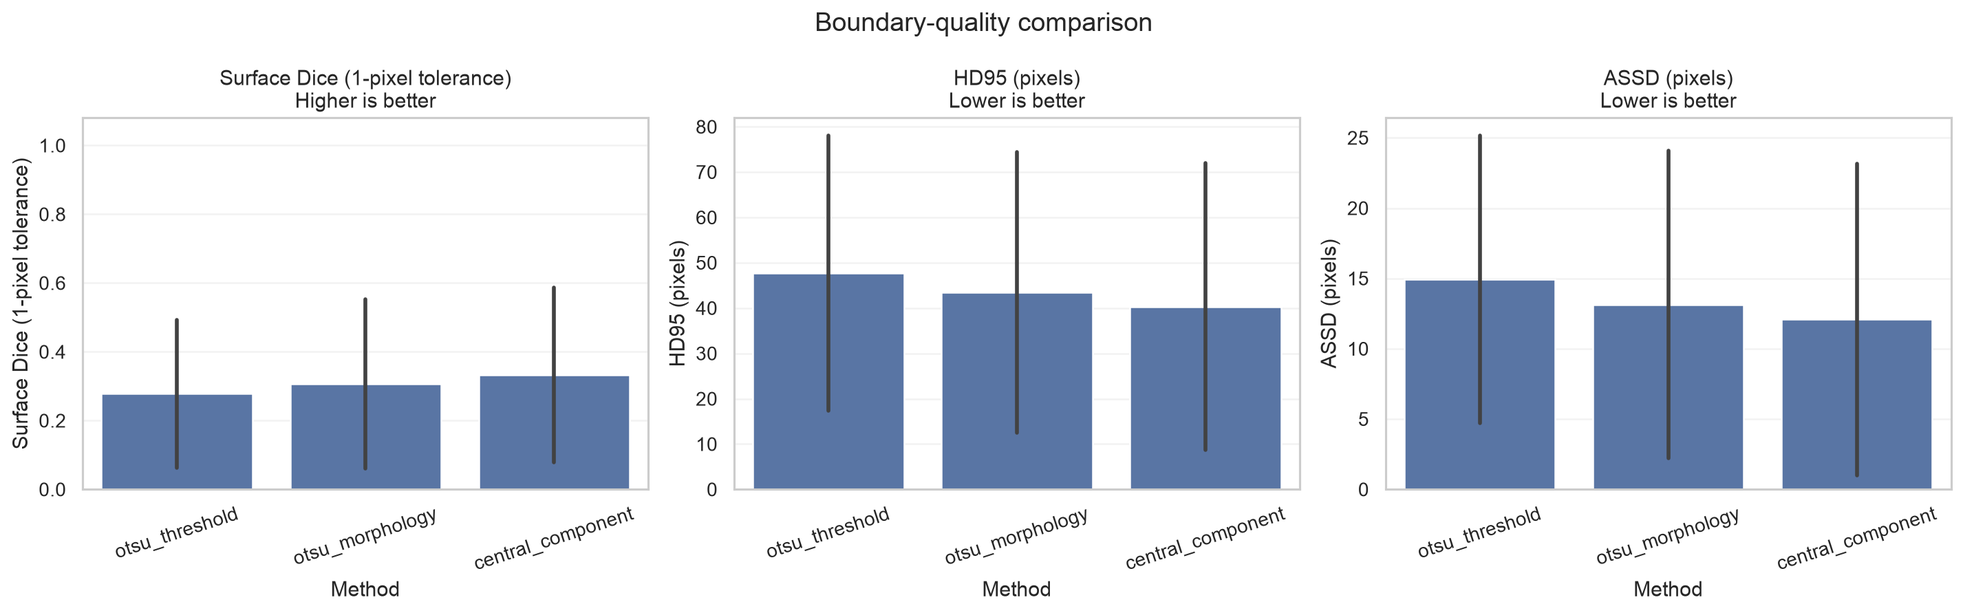
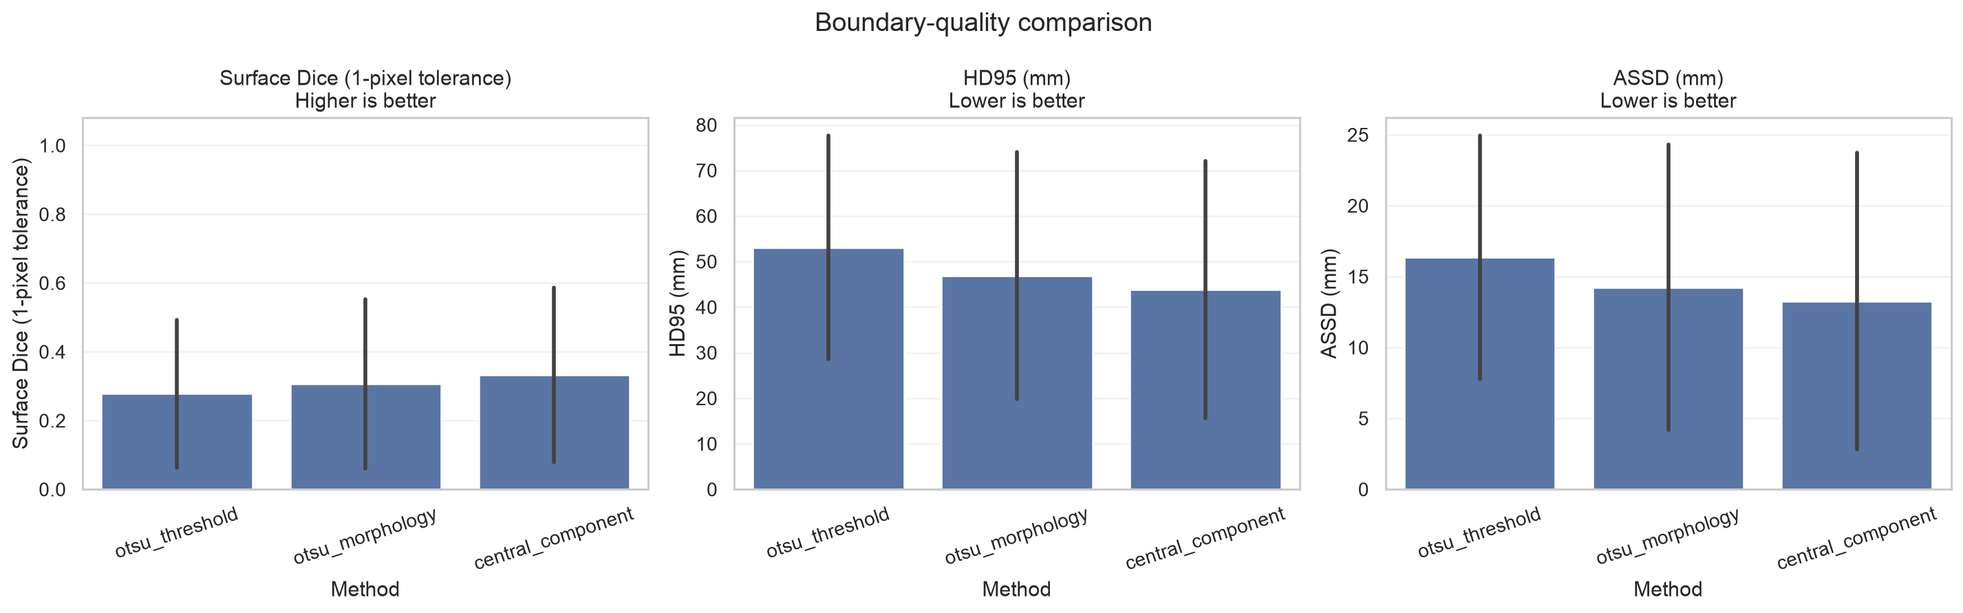
docs: report physical paired and modality analyses

diff --git a/README.md b/README.md
@@ -16,7 +16,7 @@ For each 2D image, the program loads its reference brain mask, robustly normaliz
 
 The implementation is separated into dataset loading, preprocessing, segmentation, metrics, evaluation, and visualization modules. There is no notebook-only logic and no hidden metrics library.
 
-The evaluator also calculates boundary metrics, stratifies results by source dataset, produces deterministic bootstrap confidence intervals, and applies reference-free geometry checks that flag suspicious masks for manual review.
+The evaluator also calculates boundary metrics in pixels and physical millimeters, stratifies results by source dataset and MRI modality, performs paired scan-level comparisons, produces deterministic bootstrap confidence intervals, and applies reference-free geometry checks that flag suspicious masks for manual review.
 
 ## Why skull stripping matters
 
@@ -88,7 +88,7 @@ Three boundary metrics complement region overlap:
 - **HD95** is the 95th percentile of symmetric boundary distances. Lower is better.
 - **ASSD** is the average symmetric surface distance. Lower is better.
 
-HD95 and ASSD are reported in pixels, not millimeters, because this 2D benchmark contains mixed native scan geometries. When exactly one mask is empty, the image diagonal is used as an explicit finite distance penalty.
+HD95 and ASSD are reported both in pixels and in millimeters. The loader reads the row and column spacing stored in each NIfTI header, so physical distances respect mixed native resolutions. When exactly one mask is empty, the corresponding image diagonal is used as an explicit finite distance penalty.
 
 Dice and IoU measure overlap. Precision asks, “of what I called brain, how much was correct?” Sensitivity asks, “of the real brain, how much did I find?” Specificity asks, “of the non-brain background, how much did I reject?” Pixel accuracy is recorded but is not a headline result because a large background can make a poor brain mask look deceptively accurate.
 
@@ -144,7 +144,18 @@ data/processed/synthstrip_data_v1.5_2d
 python -m pytest -q
 ```
 
-Verified result: `28 passed`.
+Verified result: `38 passed`.
+
+For the complete development checks used in this repository:
+
+```bash
+python -m pip install -r requirements-dev.txt
+ruff check .
+mypy src
+python -m pytest -q --cov=src --cov-report=term-missing
+```
+
+The verified branch coverage was 57.3%, above the explicit 55% project floor. The test suite includes a subprocess integration test that creates a temporary NIfTI dataset and exercises the complete CLI.
 
 ## Reproduce development tuning
 
@@ -186,6 +197,31 @@ On a system where Matplotlib cannot write its normal user cache, prefix either e
 
 The CLI also accepts overrides such as `--opening-radius-fraction`, `--closing-radius-fraction`, `--minimum-component-area-fraction`, `--centrality-weight`, normalization percentiles, `--boundary-tolerance-pixels`, and `--bootstrap-samples`. Do not tune segmentation parameters on the held-out test metrics.
 
+## Optional local Streamlit explorer
+
+After the command-line pipeline is working, install the separate UI dependency and start the public-dataset explorer:
+
+```bash
+python -m pip install -r requirements-app.txt
+streamlit run streamlit_app.py
+```
+
+The app lets you choose an included official dataset image, adjust morphology settings, compare predictions, view error maps, and inspect Dice/IoU and warning diagnostics. It deliberately has no arbitrary upload control, so it does not invite users to place private patient data in the prototype. The CLI remains the reproducible source of the reported results.
+
+## Calibrate warning rules on development data
+
+The warning thresholds can be audited without touching the test split:
+
+```bash
+python -m scripts.calibrate_quality_warnings \
+  --data-dir data/processed/synthstrip_data_v1.5_2d \
+  --output-dir outputs/quality_calibration \
+  --failure-dice-threshold 0.40 \
+  --seed 42
+```
+
+On the 24 development scans, the search recommended the existing defaults (`minimum_area_fraction=0.03`, `maximum_method_disagreement=0.35`): it identified both development cases below Dice 0.40 with no false warning. That tiny result is a development calibration check, not evidence of general warning accuracy.
+
 ## Output directory
 
 Each run writes:
@@ -194,7 +230,9 @@ Each run writes:
 per_image_metrics.csv          one row per scan and method
 summary_metrics.csv            aggregate statistics per method
 source_summary_metrics.csv     metrics grouped by source family and method
+modality_summary_metrics.csv   metrics grouped by encoded MRI modality and method
 bootstrap_confidence_intervals.csv  deterministic 95% intervals for mean metrics
+paired_method_comparisons.csv  paired improvements, confidence intervals, wins, and tests
 quality_summary.csv            warning rates and warning-type counts
 run_config.json                seed, parameters, versions, platform, and counts
 invalid_pairs.csv              only when invalid inputs are found
@@ -203,11 +241,15 @@ dice_distribution.png
 iou_distribution.png
 processing_time_comparison.png
 source_dice_comparison.png
+modality_dice_comparison.png
+paired_dice_improvement.png
 quality_warning_rates.png
 boundary_metric_comparison.png
 best_cases.png
 worst_cases.png
 overlays/                      six individual five-panel case figures
+failure_review.md              ranked prediction-only review queue
+failure_review_cases/          multi-method review figures for flagged cases
 ```
 
 Every case figure shows the normalized MRI, ground truth, prediction, contour overlay, and labeled error map. Error maps use both color and text: TP = correct brain, FP = predicted outside the reference, and FN = missed brain.
@@ -222,9 +264,9 @@ These are real measurements from the verified full run on all **558 official tes
 
 | Method | Mean Dice | Mean IoU | Precision | Sensitivity | Specificity | Mean time/image |
 |---|---:|---:|---:|---:|---:|---:|
-| `otsu_threshold` | 0.7494 | 0.6184 | 0.6811 | 0.8843 | 0.7649 | 0.00032 s |
-| `otsu_morphology` | 0.7717 | 0.6499 | 0.7087 | 0.9044 | 0.7858 | 0.00218 s |
-| `central_component` | **0.7903** | **0.6777** | **0.7491** | 0.9010 | **0.8174** | 0.00380 s |
+| `otsu_threshold` | 0.7494 | 0.6184 | 0.6811 | 0.8843 | 0.7649 | 0.00034 s |
+| `otsu_morphology` | 0.7717 | 0.6499 | 0.7087 | 0.9044 | 0.7858 | 0.00225 s |
+| `central_component` | **0.7903** | **0.6777** | **0.7491** | 0.9010 | **0.8174** | 0.00397 s |
 
 `central_component` had the best mean Dice and IoU. It improved mean Dice by about 0.041 over raw Otsu. Its median Dice was 0.823, but its minimum was only 0.085; the mean alone hides severe failures.
 
@@ -236,13 +278,19 @@ Quick-run measurements on the deterministic 20-scan sample were Dice 0.7700, 0.7
 
 The 95% scan-level bootstrap intervals used 1,000 resamples with seed 42:
 
-| Method | Mean Dice (95% CI) | Surface Dice | HD95 | ASSD |
+| Method | Mean Dice (95% CI) | Surface Dice | HD95 (mm) | ASSD (mm) |
 |---|---:|---:|---:|---:|
-| `otsu_threshold` | 0.7494 (0.7375–0.7609) | 0.2783 | 47.69 px | 14.92 px |
-| `otsu_morphology` | 0.7717 (0.7590–0.7832) | 0.3068 | 43.49 px | 13.15 px |
-| `central_component` | **0.7903 (0.7768–0.8032)** | **0.3332** | **40.33 px** | **12.09 px** |
+| `otsu_threshold` | 0.7494 (0.7375–0.7609) | 0.2783 | 53.09 | 16.36 |
+| `otsu_morphology` | 0.7717 (0.7590–0.7832) | 0.3068 | 46.90 | 14.25 |
+| `central_component` | **0.7903 (0.7768–0.8032)** | **0.3332** | **43.88** | **13.26** |
 
 ![Boundary metric comparison](docs/assets/boundary_metric_comparison.png)
+
+### Paired scan-level comparisons
+
+Because every method processes the same 558 scans, paired differences are more informative than comparing independent means. Morphology improved Dice over Otsu by 0.0223 on average (95% bootstrap CI 0.0196–0.0251) and won on 449 scans. The central-component method improved Dice over Otsu by 0.0409 (0.0355–0.0468) and won on 456 scans. It improved over morphology by 0.0187 (0.0150–0.0228), although 235 scans tied because component selection made no change. Wilcoxon signed-rank tests remained significant after Holm correction; statistical significance does not imply clinical adequacy.
+
+![Paired per-scan Dice improvements](docs/assets/paired_dice_improvement.png)
 
 ### Reference-free warning results
 
@@ -255,6 +303,12 @@ For `central_component`, 31 of 558 predictions (5.6%) were flagged. Their observ
 `central_component` mean Dice varied by source family: ASL 0.851, FSM 0.700, Infant 0.714, IXI 0.799, and QIN 0.852.
 
 ![Source-level Dice comparison](docs/assets/source_dice_comparison.png)
+
+### Modality-specific results
+
+The scan identifiers encode broad modality groups. For `central_component`, mean Dice ranged from 0.514 for qT1 and 0.755 for T1 to 0.947 for MRA and 0.952 for ASL/EPI. This post-hoc descriptive analysis helps locate failure modes; it was not used to tune the methods.
+
+![Modality-level Dice comparison](docs/assets/modality_dice_comparison.png)
 
 ## Failure analysis
 
@@ -275,8 +329,8 @@ The source-level central-component mean Dice also varied: ASL 0.851, QIN 0.852, 
 - The centrality heuristic can select the wrong anatomy when the brain is off-center or internal tissue is especially bright.
 - Ground-truth definitions can differ between datasets, especially around cerebrospinal fluid and boundaries.
 - Development tuning used only 24 scans. Test metrics describe this dataset and split, not every scanner, population, disease, or protocol.
-- Quality-warning thresholds are geometry heuristics, not calibrated confidence estimates. Some poor masks are not flagged and unusual valid masks can be flagged.
-- Boundary distances are reported in pixels, so direct physical-distance comparison across native resolutions is limited.
+- Quality-warning thresholds are geometry heuristics calibrated on only 24 development scans, not confidence estimates. Some poor masks are not flagged and unusual valid masks can be flagged.
+- Physical boundary distances use NIfTI header spacing, but they remain 2D slice measurements and do not describe a 3D anatomical surface.
 - Timing is machine- and software-dependent.
 - This is a retrospective educational evaluation, not clinical validation.
 
@@ -286,7 +340,7 @@ This software is an educational research prototype. It is **not** diagnostic sof
 
 ## Future work
 
-A sensible next experiment is external validation or a small 2D U-Net trained with a strict scan-level development/test protocol and compared against these unchanged baselines. Additional work could evaluate 3D consistency, physically calibrated surface distances, and warning calibration on an independent dataset. An autoencoder, pretrained encoder, transformer, or regression model should be introduced only with a clear question and leakage-safe evaluation—not because it sounds more advanced.
+A sensible next experiment is external validation or a small 2D U-Net trained with a strict scan-level training/development/test protocol and compared against these unchanged baselines. Additional work could evaluate full 3D consistency and warning calibration on an independent dataset. An autoencoder, pretrained encoder, transformer, or regression model should be introduced only with a clear question and leakage-safe evaluation—not because it sounds more advanced.
 
 ## Project map
 
@@ -294,14 +348,17 @@ A sensible next experiment is external validation or a small 2D U-Net trained wi
 configs/default.yaml               tuned classical parameters
 scripts/download_data.py           official download, checksum, safe extraction
 scripts/tune_on_development.py      development-only grid search
+scripts/calibrate_quality_warnings.py development-only warning calibration
 src/dataset.py                      discovery, NIfTI loading, validation
 src/preprocessing.py                robust intensity normalization
 src/segmentation.py                 three classical methods
 src/metrics.py                      overlap and boundary metric formulas
 src/quality.py                      reference-free mask diagnostics
+src/calibration.py                  warning-calibration measurements
 src/evaluate.py                     command-line evaluation
 src/visualization.py                charts and five-panel cases
-tests/                              28 focused unit tests
+streamlit_app.py                    optional public-dataset explorer
+tests/                              38 unit, integration, and app tests
 docs/assets/                        tracked aggregate result charts
 INTERVIEW_PREP.md                   beginner study guide
 PROJECT_REPORT.md                   concise experimental report

diff --git a/INTERVIEW_PREP.md b/INTERVIEW_PREP.md
@@ -59,6 +59,10 @@ Dice measures overlap: `2TP / (2TP + FP + FN)`. It ranges from 0 for no overlap 
 
 Intersection over Union is `TP / (TP + FP + FN)`. It divides the shared region by everything covered by either mask. It is stricter numerically than Dice but ranks a fixed set of predictions similarly.
 
+### What are boundary metrics?
+
+Overlap can look similar even when one contour is farther from the reference. Surface Dice asks how much of the two boundaries lies within a tolerance. HD95 is a robust “large boundary error” distance, while ASSD is the average symmetric boundary distance. This project reports HD95 and ASSD in pixels and millimeters using NIfTI header spacing. Lower distance is better; higher surface Dice is better.
+
 ### Why can accuracy be misleading?
 
 If most pixels are background, predicting background everywhere can achieve high pixel accuracy while finding no brain. Dice, sensitivity, and precision focus more directly on the target region and its errors.
@@ -93,7 +97,7 @@ It is a retrospective educational prototype tested on one public 2D dataset. It 
 
 ## 60-second explanation
 
-“I built a reproducible evaluation of three classical skull-stripping baselines on the official SynthStrip 2D dataset. Skull stripping is binary segmentation: keeping brain pixels and removing skull and other non-brain anatomy. I started with Otsu thresholding, added morphological cleanup, and then selected a large central connected component. I used the authors' 24-scan validation split to choose morphology parameters and kept all 558 test scans held out. Mean test Dice improved from 0.749 to 0.772 to 0.790. I also added boundary metrics, source-specific analysis, confidence intervals, and prediction-only warning checks. The best method's warnings caught every case below Dice 0.20, but they missed some moderate failures. My takeaway is that spatial cleanup helps and warnings can prioritize review, but neither makes intensity heuristics clinically reliable.”
+“I built a reproducible evaluation of three classical skull-stripping baselines on the official SynthStrip 2D dataset. Skull stripping is binary segmentation: keeping brain pixels and removing skull and other non-brain anatomy. I started with Otsu thresholding, added morphological cleanup, and then selected a large central connected component. I used the authors' 24-scan validation split to choose parameters and kept all 558 test scans held out. Mean test Dice improved from 0.749 to 0.772 to 0.790. A paired scan-level analysis measured the final improvement over raw Otsu as 0.041 Dice, with a 95% interval from 0.035 to 0.047. I also added physical boundary metrics, modality analysis, prediction-only warning checks, and a small public-dataset explorer. The main lesson is that spatial cleanup helps, but the severe qT1 and T2 failures show why these heuristics are not clinically reliable.”
 
 ## Two-minute detailed explanation
 
@@ -101,11 +105,11 @@ It is a retrospective educational prototype tested on one public 2D dataset. It 
 
 “For preprocessing, I clip each image to its 1st and 99th intensity percentiles and scale to zero-to-one. Method 1 uses Otsu's threshold and scores both intensity polarities without looking at the reference mask. Method 2 adds scale-aware opening, closing, hole filling, and small-object removal. Method 3 scores connected components using area and distance from image center, keeps the best one, and performs final cleanup.
 
-“I implemented TP, TN, FP, FN, Dice, IoU, precision, sensitivity, specificity, surface Dice, HD95, and ASSD directly and unit-tested perfect, partial, no-overlap, boundary, and empty cases. A development-only grid selected morphology parameters. On the held-out 558 scans, mean Dice was 0.749, 0.772, and 0.790. Method 3's 95% bootstrap interval was 0.777 to 0.803. It improved precision and specificity but was slightly less sensitive than Method 2 because selecting one component can discard real brain pixels.
+“I implemented TP, TN, FP, FN, Dice, IoU, precision, sensitivity, specificity, surface Dice, HD95, and ASSD directly and unit-tested perfect, partial, no-overlap, boundary, and empty cases. HD95 and ASSD are available in pixels and physical millimeters from the NIfTI spacing. A development-only grid selected morphology parameters. On the held-out 558 scans, mean Dice was 0.749, 0.772, and 0.790. Method 3's 95% bootstrap interval was 0.777 to 0.803. It improved precision and specificity but was slightly less sensitive than Method 2 because selecting one component can discard real brain pixels.
 
-“I generated per-image CSVs, aggregate and source-specific statistics, confidence intervals, warning summaries, and five-panel best/worst overlays. For the best method, flagged results averaged 0.551 Dice versus 0.804 when unflagged, and all four catastrophic cases below 0.20 were flagged. But the rules missed many moderate failures, so they are triage signals rather than probabilities. I would not claim clinical adequacy. The next experiment would validate these warnings externally before comparing a leakage-safe U-Net against the frozen baselines.”
+“Because the methods process the same scans, I also calculated paired improvements rather than comparing only separate means. Method 3 improved over raw Otsu by 0.041 Dice on average and won on 456 of 558 scans. I generated source- and modality-specific statistics, physical boundary plots, a ranked failure-review report, and warning summaries. For the best method, flagged test results averaged 0.551 Dice versus 0.804 when unflagged, but the rules missed many moderate failures, so they are triage signals rather than probabilities. I would not claim clinical adequacy. The next experiment would validate the frozen pipeline on an external dataset before comparing a leakage-safe U-Net.”
 
-## Eleven likely interview questions
+## Twelve likely interview questions
 
 1. **Why did you choose classical methods?**  
    I am building understanding in layers. Classical methods let me verify data, metrics, and evaluation while explaining every operation. They also create a meaningful baseline for future deep learning.
@@ -129,7 +133,7 @@ It is a retrospective educational prototype tested on one public 2D dataset. It 
    Method 3's Dice standard deviation was 0.156, so performance varied widely. Mean performance alone is not enough; case plots and minimum values reveal risk.
 
 8. **What would you improve first?**  
-   I would establish a training split and compare a small U-Net using the same untouched test set and outputs. I would also evaluate source groups and a second dataset to test generalization.
+   I would first run the frozen pipeline on a second licensed dataset to test external generalization. After that, I would establish a training split and compare a small U-Net while preserving an untouched final test set.
 
 9. **Did you implement the SynthStrip neural model?**  
    No. I used its public 2D evaluation dataset and masks. This version deliberately implements only classical baselines. The original SynthStrip method is deep learning and is cited as the data source.
@@ -138,7 +142,10 @@ It is a retrospective educational prototype tested on one public 2D dataset. It 
     I have not demonstrated 3D performance, clinical usefulness, or cross-dataset generalization. I am comfortable explaining the implemented 2D pipeline and its measurements, but I would seek expert guidance on clinical mask definitions and evaluation design.
 
 11. **Are the quality warnings confidence scores?**
-    No. They are deterministic geometry and method-disagreement rules. They caught the most catastrophic failures in this test set, but they are not calibrated probabilities and need external validation.
+    No. They are deterministic geometry and method-disagreement rules. Their thresholds were selected on only 24 development scans, and their observed test behavior is reported honestly. They are not calibrated probabilities and need external validation.
+
+12. **Why did you use a paired analysis?**
+    Every method processed the same 558 scans, so each scan acts as its own control. Subtracting scores scan by scan distinguishes a consistent improvement from a mean difference caused by different case mixes. I report effect size, bootstrap interval, wins/losses/ties, and a corrected paired test rather than only a p-value.
 
 ## Five intelligent questions to ask the interviewer
 
@@ -164,6 +171,8 @@ It is a retrospective educational prototype tested on one public 2D dataset. It 
 - **IoU:** intersection divided by union.
 - **HD95:** robust boundary distance using the 95th percentile; lower is better.
 - **ASSD:** average symmetric distance between predicted and reference boundaries.
+- **Bootstrap interval:** uncertainty estimate produced by repeatedly resampling scans with replacement.
+- **Paired comparison:** comparison of two methods on the same cases.
 - **Morphology:** shape-based binary image processing.
 - **NIfTI:** a common neuroimaging file format (`.nii` or `.nii.gz`).
 - **Normalization:** transforming intensities to a more consistent range.
@@ -193,7 +202,10 @@ It is a retrospective educational prototype tested on one public 2D dataset. It 
 - Activate the environment: `source .venv/bin/activate`.
 - Show the project structure and `configs/default.yaml`.
 - Run `python -m pytest -q` and point out the metric empty-case tests.
+- Optionally run `streamlit run streamlit_app.py` for an interactive public-dataset demonstration.
 - Open `outputs/full_run/method_comparison.png`.
+- Open `docs/assets/paired_dice_improvement.png` and explain why comparisons are paired.
+- Open `docs/assets/modality_dice_comparison.png` and discuss qT1/T2 limitations.
 - Open `docs/assets/quality_warning_rates.png` and explain that warnings are conservative.
 - Open one best and one worst overlay; explain TP, FP, and FN.
 - Show `summary_metrics.csv` and emphasize 558 held-out scans.

diff --git a/PROJECT_REPORT.md b/PROJECT_REPORT.md
@@ -20,33 +20,41 @@ All images were clipped at their per-image 1st and 99th intensity percentiles an
 
 No ground-truth mask is used during prediction. No method learns from the test set.
 
-The evaluator also records surface Dice at one-pixel tolerance, HD95, and ASSD. Reference-free checks measure predicted area, connected components, centroid location, border contact, and disagreement among methods to flag masks for review.
+The evaluator also records surface Dice at one-pixel tolerance plus HD95 and ASSD in both pixels and physical millimeters read from the NIfTI header. Reference-free checks measure predicted area, connected components, centroid location, border contact, and disagreement among methods to flag masks for review.
 
 ## Experimental design
 
 A grid of 81 parameter combinations was evaluated on only the 24 development scans. The chosen configuration used opening fraction 0.008, closing fraction 0.004, minimum component area fraction 0.005, and centrality weight 0.75. On development data, Method 2 reached mean Dice 0.744 and Method 3 reached 0.750.
 
-The final CLI then evaluated the fixed configuration on 558 held-out test scans using seed 42. Metrics were calculated per image, then summarized across images. Confidence intervals used 1,000 scan-level bootstrap resamples with the same seed. Processing time covers segmentation only. The complete configuration and package versions are in `outputs/full_run/run_config.json`.
+The warning thresholds were separately audited on the same 24 development scans. For a predefined failure threshold of Dice below 0.40, a small grid recommended the existing defaults and identified both development failures with no false warning. This tiny calibration result is not a general accuracy claim.
+
+The final CLI then evaluated the fixed configuration on 558 held-out test scans using seed 42. Metrics were calculated per image, then summarized across images. Confidence intervals and paired method differences used 1,000 scan-level bootstrap resamples with the same seed. Paired Wilcoxon tests used Holm correction across reported comparisons. Processing time covers segmentation only. The complete configuration and package versions are in `outputs/full_run/run_config.json`.
 
 ## Results
 
 | Method | N | Dice mean (median) | IoU mean | Precision | Sensitivity | Specificity | Mean time |
 |---|---:|---:|---:|---:|---:|---:|---:|
-| `otsu_threshold` | 558 | 0.749 (0.764) | 0.618 | 0.681 | 0.884 | 0.765 | 0.00032 s |
-| `otsu_morphology` | 558 | 0.772 (0.787) | 0.650 | 0.709 | **0.904** | 0.786 | 0.00218 s |
-| `central_component` | 558 | **0.790 (0.823)** | **0.678** | **0.749** | 0.901 | **0.817** | 0.00380 s |
+| `otsu_threshold` | 558 | 0.749 (0.764) | 0.618 | 0.681 | 0.884 | 0.765 | 0.00034 s |
+| `otsu_morphology` | 558 | 0.772 (0.787) | 0.650 | 0.709 | **0.904** | 0.786 | 0.00225 s |
+| `central_component` | 558 | **0.790 (0.823)** | **0.678** | **0.749** | 0.901 | **0.817** | 0.00397 s |
 
 ![Method comparison](docs/assets/method_comparison.png)
 
 The methods improve progressively in mean Dice, IoU, precision, and specificity. Method 2 has slightly higher mean sensitivity than Method 3 because component selection can discard true disconnected brain pixels. Method 3's extra precision and specificity produce the best overall overlap.
 
-| Method | Mean Dice 95% CI | Surface Dice | HD95 (pixels) | ASSD (pixels) |
+| Method | Mean Dice 95% CI | Surface Dice | HD95 (mm) | ASSD (mm) |
 |---|---:|---:|---:|---:|
-| `otsu_threshold` | 0.737–0.761 | 0.278 | 47.69 | 14.92 |
-| `otsu_morphology` | 0.759–0.783 | 0.307 | 43.49 | 13.15 |
-| `central_component` | **0.777–0.803** | **0.333** | **40.33** | **12.09** |
+| `otsu_threshold` | 0.737–0.761 | 0.278 | 53.09 | 16.36 |
+| `otsu_morphology` | 0.759–0.783 | 0.307 | 46.90 | 14.25 |
+| `central_component` | **0.777–0.803** | **0.333** | **43.88** | **13.26** |
 
 ![Boundary metrics](docs/assets/boundary_metric_comparison.png)
+
+## Paired improvements
+
+Every method processed the same scans, so the analysis subtracts scores scan by scan. Morphology minus Otsu improved Dice by 0.0223 on average (95% bootstrap CI 0.0196–0.0251), winning on 449 scans and losing on 108. Central component minus Otsu improved Dice by 0.0409 (0.0355–0.0468), winning on 456 scans and losing on 101. Central component minus morphology improved Dice by 0.0187 (0.0150–0.0228), with 302 wins, 21 losses, and 235 ties. All Dice comparisons remained significant after Holm correction, but the effect sizes and failures matter more than a small p-value.
+
+![Paired per-scan Dice improvements](docs/assets/paired_dice_improvement.png)
 
 ## Reliability warnings
 
@@ -78,22 +86,24 @@ These failures explain why the later method is not uniformly better. Selecting o
 
 The experiment supports a narrow conclusion: on this 2D test split, deterministic cleanup and component selection improve average overlap over raw Otsu. It does not show that thresholding is clinically adequate. Method 3's standard deviation is 0.156 and its Dice range is 0.085–0.989, so a good average coexists with catastrophic failures.
 
-Performance varies by source group for Method 3: ASL 0.851, QIN 0.852, IXI 0.799, Infant 0.714, and FSM 0.700 mean Dice. MRI contrast, resolution, anatomy, and acquisition differences challenge a single intensity rule.
+Performance varies by source group for Method 3: ASL 0.851, QIN 0.852, IXI 0.799, Infant 0.714, and FSM 0.700 mean Dice. It also varies by modality encoded in the identifiers: ASL/EPI 0.952, MRA 0.947, DWI 0.912, FLAIR 0.904, T2 0.775, PD 0.757, T1 0.755, and qT1 0.514. MRI contrast, resolution, anatomy, and acquisition differences challenge a single intensity rule.
 
 ![Source-level Dice](docs/assets/source_dice_comparison.png)
+
+![Modality-level Dice](docs/assets/modality_dice_comparison.png)
 
 ## Limitations
 
 - One sagittal slice per scan cannot measure 3D continuity or volumetric accuracy.
 - Only 24 scans informed parameter choice.
 - The heuristic encodes assumptions about intensity, size, connectivity, and location.
-- Warning thresholds are uncalibrated geometry heuristics and miss some poor predictions.
-- Surface distances are in pixels rather than physical millimeters.
+- Warning thresholds were calibrated on only 24 development scans. They remain geometry heuristics rather than confidence probabilities and miss some poor predictions.
+- Millimeter boundary distances depend on NIfTI header spacing and measure only a 2D contour, not a complete 3D surface.
 - Results may not transfer to another scanner, protocol, population, or mask definition.
 - Timing is specific to the local Apple-silicon software environment.
 - This is not a prospective, clinical, diagnostic, or regulatory evaluation.
 
 ## Proposed next experiment
 
-Train a small 2D U-Net using a leakage-safe scan-level training/development split, freeze the current test set, and compare it with these unchanged baselines using the same metrics and case analysis. Add a second external dataset if licensing permits. The key question should be whether learned spatial features reduce the T2 and cross-source failures—not merely whether the model has more parameters.
+First run the frozen classical pipeline on a second licensed dataset to measure external generalization and recalibrate warnings without touching this test set. Then train a small 2D U-Net with a leakage-safe training/development/test design and compare it with these unchanged baselines using the same metrics and paired case analysis. The key question should be whether learned spatial features reduce the qT1/T2 and cross-source failures—not merely whether the model has more parameters.
 

diff --git a/docs/assets/README.md b/docs/assets/README.md
@@ -4,3 +4,8 @@ These aggregate charts are generated from the official SynthStrip 2D v1.5 test
 split by `python -m src.evaluate`. They contain summary statistics only and no
 individual MRI images. Full outputs and case overlays remain under ignored
 `outputs/` directories and can be regenerated using the project README.
+
+The tracked figures cover overall overlap, source and modality stratification,
+physical boundary quality, paired per-scan improvement, and prediction-only
+warning rates. They were refreshed from the verified 558-scan test run with
+seed 42.
